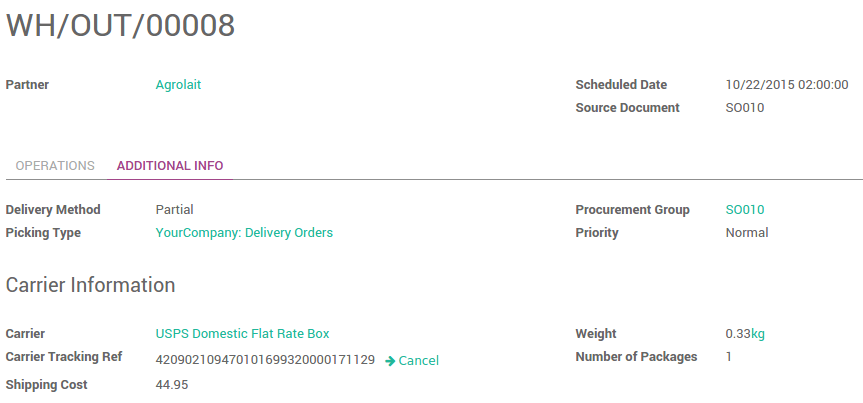
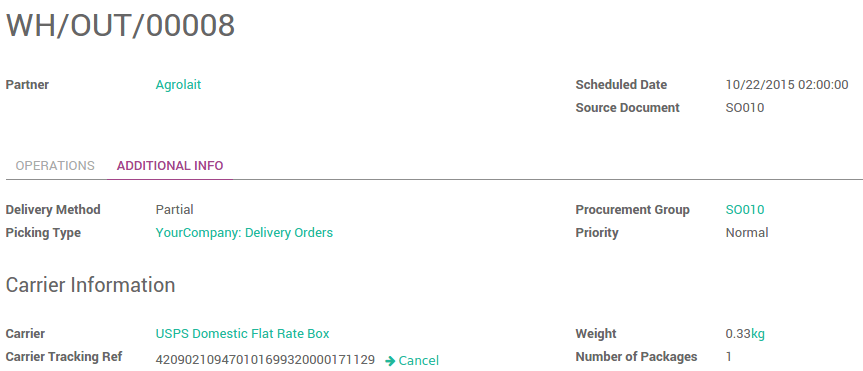
[FIX] inventory: outdated screenshot
The field carrier_price is no longer viewable in the delivery order by
default and the screenshot could bring confusion to people that are
following the documentation.

closes #394

diff --git a/inventory/shipping/operation/invoicing.rst b/inventory/shipping/operation/invoicing.rst
@@ -61,8 +61,8 @@ On your sale order, choose the carrier that will be used. Click on
 The price is computed when you **save** the sale order. Confirm the sale
 order and proceed to deliver the product.
 
-The real shipping cost are computed when the delivery order is
-validated.
+The real shipping cost is computed when the delivery order is
+validated, you can see the real cost in the chatter of the delivery order.
 
 .. image:: media/invoicing02.png
    :align: center
